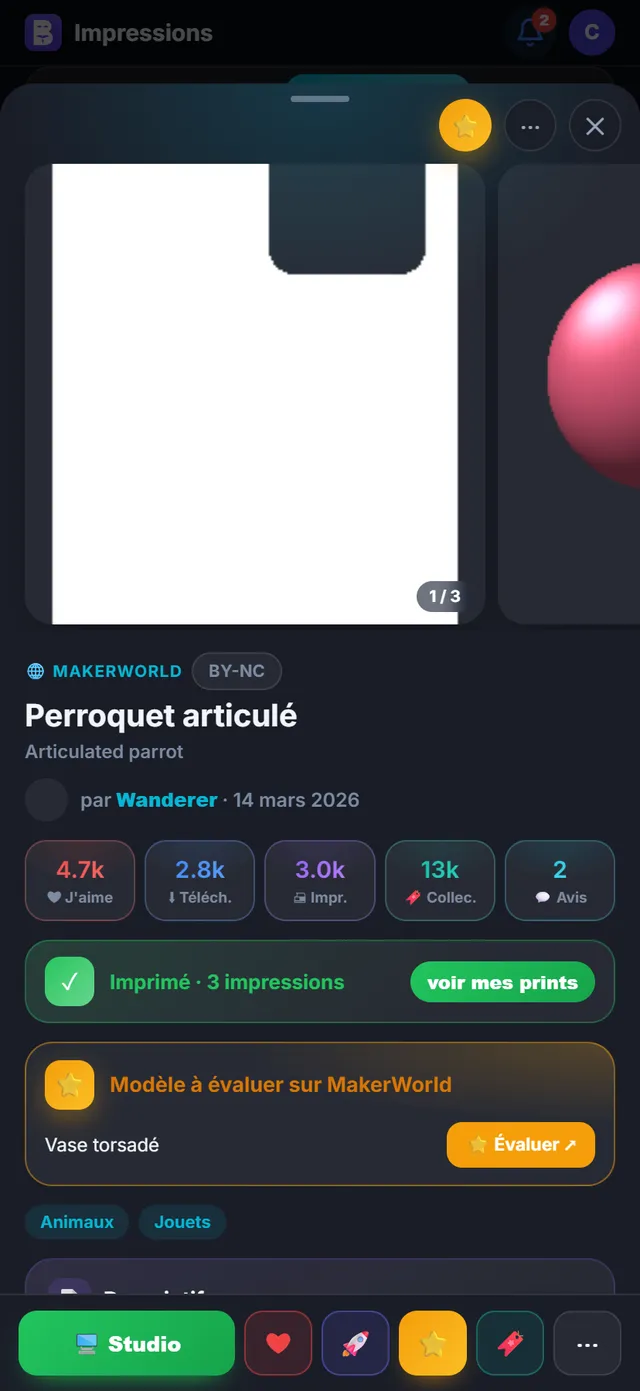
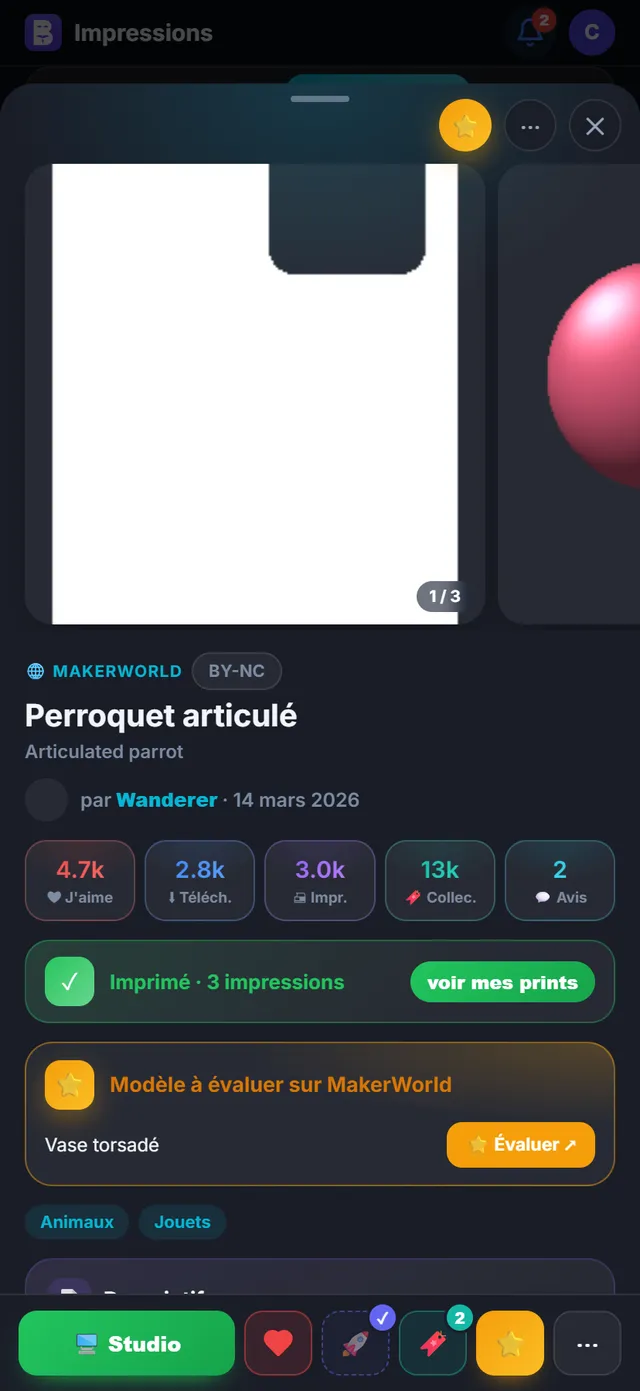
Fiche MakerWorld : boutons en retrait qui disent pourquoi, boost déjà donné visible ; tuiles : j'aime et collections
- cœur dessiné, plein ou vide, même taille
- ordre : ❤ 🚀 🔖 ⭐ ; un bouton indisponible garde sa couleur en pointillés et explique au toucher
- 🚀 : pastille ✓ ou nombre quand le modèle est déjà boosté ; état relu après un boost
- 🔖 : nombre de mes collections qui contiennent le modèle
- tuiles de modèles : cœur si aimé, signet plein et compté si déjà dans mes collections
- guide mis à jour

Changed region(s): [[0.5, 0.9274, 0.875, 1.0], [0.4062, 0.9583, 0.4688, 0.9892]]

diff --git a/frontend/src/components/MakerWorldModelSheet.jsx b/frontend/src/components/MakerWorldModelSheet.jsx
@@ -19,6 +19,8 @@ import Lightbox from "./Lightbox";
 import { openCreator } from "./MwCreatorPage";
 import { useToRateSet, GroupToRate, RateButton } from "./MwToRate";
 import { showAlert, showConfirm } from "../utils/dialog";
+import { toast } from "../store/toast";
+import { Heart } from "lucide-react";
 
 // Prechargement : la fiche est demandee des qu'on touche une tuile ; a
 // l'ouverture, la reponse est souvent deja la.
@@ -101,6 +103,16 @@ export default function MakerWorldModelSheet({ designId, preview, onClose, onSea
   const toRate = useToRateSet(!friend);           // imprime, pas encore evalue
   const [boost, setBoost] = useState(null);       // { can, available }
   const [boostBusy, setBoostBusy] = useState(false);
+  const [inColls, setInColls] = useState(null);     // mes collections qui contiennent ce modele
+  useEffect(() => {
+    if (!canHome) return undefined;
+    let alive = true;
+    setInColls(null);
+    client.get("/makerworld/mine", { params: { ids: String(id) } })
+      .then(r => alive && r.data.collections_known && setInColls(r.data.items?.[String(id)]?.collections || []))
+      .catch(() => {});
+    return () => { alive = false; };
+  }, [id, canHome, pick]);
   useEffect(() => {
     let alive = true;
     setBoost(null);
@@ -111,12 +123,14 @@ export default function MakerWorldModelSheet({ designId, preview, onClose, onSea
   }, [id]);
   const doBoost = async () => {
     const n = boost?.available;
-    if (!await showConfirm(`Booster « ${m?.title_fr || m?.title || "ce modèle"} » ? Ça utilise un de tes boosts`
+    const was = boost?.boosted ? ` Tu l'as déjà boosté ${boost.boosted} fois.` : "";
+    if (!await showConfirm(`Booster « ${m?.title_fr || m?.title || "ce modèle"} » ?${was} Ça utilise un de tes boosts`
       + (n != null ? ` (il t'en reste ${n}).` : "."), { confirmLabel: "🚀 Booster" })) return;
     setBoostBusy(true);
     try {
       const { data } = await client.post(`/makerworld/model/${id}/boost`);
-      setBoost({ can: false, available: data.available, done: true });
+      setBoost(b => ({ ...b, can: false, available: data.available, boosted: (b?.boosted || 0) + 1, reason: "Boosté à l'instant" }));
+      client.get(`/makerworld/model/${id}/boost`).then(r => r.data.known && setBoost(r.data)).catch(() => {});
     } catch (e) { showAlert(e.response?.data?.detail || e.message); }
     setBoostBusy(false);
   };
@@ -251,12 +265,11 @@ export default function MakerWorldModelSheet({ designId, preview, onClose, onSea
         onClick: () => { onSearch(m); onClose(); } },
       (like && canHome || boost && canHome || canHome) && "-",
       like && canHome && { icon: like.liked ? "❤" : "♡", label: like.liked ? "Aimé · retirer le j'aime" : "J'aime", tone: "#EF4444", disabled: likeBusy, onClick: toggleLike },
-      boost && canHome && (boost.can || boost.done) && { icon: "🚀", tone: "#6366F1", disabled: boostBusy || boost.done,
-        label: boost.done ? "Boosté" : boost.boosted ? "Booster encore" : "Booster",
-        hint: [boost.available != null && `${boost.available} boost(s) disponible(s)`,
+      boost && canHome && { icon: "🚀", tone: boost.can ? "#6366F1" : "#94A3B8", disabled: boostBusy || !boost.can,
+        label: boost.can ? (boost.boosted ? "Booster encore" : "Booster") : boost.boosted ? "Déjà boosté" : "Booster",
+        hint: [boost.boosted && `déjà boosté ${boost.boosted} fois`, !boost.can && boost.reason, boost.can && boost.available != null && `${boost.available} boost(s) disponible(s)`,
           boost.creator_max != null && `${boost.creator ?? 0}/${boost.creator_max} donnés à ce créateur cette année`].filter(Boolean).join(" · ") || null,
         onClick: doBoost },
-      boost && canHome && !boost.can && !boost.done && boost.reason && { icon: "🚀", label: "Booster", hint: boost.reason, tone: "#94A3B8", disabled: true },
       canHome && { icon: "🔖", label: "Ranger dans mes collections…", tone: "#14B8A6", onClick: () => setPick(true) },
       !friend && isAdmin && "-",
       !friend && isAdmin && { icon: "🔗", label: "Associer à un print", hint: "Choisir les impressions de ce modèle dans l'historique", tone: "#8B5CF6",
@@ -710,24 +723,37 @@ export default function MakerWorldModelSheet({ designId, preview, onClose, onSea
             {like && canHome && (
               <button onClick={toggleLike} disabled={likeBusy} aria-label={like.liked ? "Aimé" : "J'aime"} data-tip={like.liked ? "Aimé · retirer le j'aime" : "J'aime"}
                 style={{ ...sq, color:"#ef4444", ...(like.liked ? { background:"rgba(239,68,68,0.14)", borderColor:"rgba(239,68,68,0.45)" } : null) }}>
-                {like.liked ? "❤" : "♡"}</button>
+                <Heart size={20} strokeWidth={2.4} fill={like.liked ? "#ef4444" : "none"}/></button>
             )}
             {canHome && (() => {
-              // boost : actif s'il reste de quoi booster ce modele, sinon grise avec la raison
-              const live = boost && boost.can && !boost.done;
-              const tip = !boost ? "Booster : indisponible" : boost.done ? "Boosté" : !boost.can ? (boost.reason || "Booster : indisponible")
-                : [boost.boosted ? "Booster encore" : "Booster", boost.available != null && `${boost.available} disponible(s)`].filter(Boolean).join(" · ");
-              return <button onClick={live ? doBoost : undefined} disabled={!live || boostBusy} aria-label="Booster" data-tip={tip}
-                style={{ ...sq, ...(live ? { background:"rgba(99,102,241,0.14)", borderColor:"rgba(99,102,241,0.45)" } : off) }}>🚀</button>;
+              // boost : actif s'il reste de quoi booster ; sinon en retrait, et le toucher dit pourquoi.
+              // Deja booste par moi : une pastille avec le nombre (MakerWorld le donne par modele).
+              const live = boost && boost.can;
+              const mine = boost?.boosted || 0;
+              const why = !boost ? "Boost : état inconnu pour l'instant (MakerWorld n'a pas répondu)"
+                : boost.reason || "Boost impossible pour ce modèle";
+              const tip = live ? [mine ? `Déjà boosté ${mine} fois · booster encore` : "Booster", boost.available != null && `${boost.available} disponible(s)`]
+                .filter(Boolean).join(" · ") : (mine && !/^Déjà boosté/.test(why) ? `Déjà boosté ${mine} fois · ` : "") + why;
+              return <button onClick={live ? doBoost : () => toast("🚀 " + (mine && !/^Déjà boosté/.test(why) ? `Tu l'as déjà boosté ${mine} fois. ` : "") + why, "info", 3500)}
+                disabled={boostBusy} aria-label="Booster" data-tip={tip}
+                style={{ ...sq, position:"relative", ...(live ? { background:"rgba(99,102,241,0.14)", borderColor:"rgba(99,102,241,0.45)" } : dim("99,102,241")) }}>
+                <span style={live ? null : { opacity:.5 }}>🚀</span>
+                {mine > 0 && <span style={badge("#6366F1")}>{mine > 1 ? mine : "✓"}</span>}</button>;
             })()}
+            {canHome && (
+              <button onClick={() => setPick(true)} aria-label="Ranger dans mes collections"
+                data-tip={inColls?.length ? `Dans ${inColls.join(", ")} · ranger…` : "Ranger dans mes collections"}
+                style={{ ...sq, position:"relative", background:"rgba(20,184,166,0.12)", borderColor:"rgba(20,184,166,0.4)" }}>🔖
+                {inColls?.length > 0 && <span style={badge("#14B8A6")}>{inColls.length}</span>}</button>
+            )}
             {!friend && (rateHere
               ? <RateButton did={id} label="⭐" ext="" doneLabel="✓" style={{ ...sq, display:"flex", alignItems:"center", justifyContent:"center", textDecoration:"none",
                   color:"#fff", border:"none", background:"linear-gradient(135deg, #F59E0B, #FBBF24)", boxShadow:"0 8px 18px -10px #F59E0B" }}/>
-              : <button disabled aria-label="Évaluer" data-tip={m.printed > 0 ? "Déjà évalué" : "À évaluer une fois imprimé"} style={{ ...sq, ...off }}>⭐</button>)}
-            {canHome && (
-              <button onClick={() => setPick(true)} aria-label="Ranger dans mes collections" data-tip="Ranger dans mes collections"
-                style={{ ...sq, background:"rgba(20,184,166,0.12)", borderColor:"rgba(20,184,166,0.4)" }}>🔖</button>
-            )}
+              : (() => {
+                const why = m.printed > 0 ? "Déjà évalué (ou mis de côté sans évaluer)" : "Pas encore imprimé : l'évaluation vient après une impression";
+                return <button onClick={() => toast("⭐ " + why, "info", 3500)} aria-label="Évaluer" data-tip={why}
+                  style={{ ...sq, ...dim("245,158,11") }}><span style={{ opacity:.5 }}>⭐</span></button>;
+              })())}
             <button onClick={menu} aria-label="Plus d'actions" style={sq}>⋯</button>
           </div>
         )}
@@ -842,7 +868,10 @@ const roundTop = { width:34, height:34, borderRadius:"50%", border:"1px solid va
 const fBtn = { padding:"11px 12px", borderRadius:12, border:"1px solid var(--border)", background:"var(--surface2)", color:"var(--text)", fontSize:13.5,
   fontWeight:800, cursor:"pointer", display:"flex", alignItems:"center", justifyContent:"center", gap:6, textDecoration:"none", boxSizing:"border-box" };
 const sq = { ...fBtn, width:44, flex:"0 0 auto", padding:"8px 0", fontSize:17, textAlign:"center" };
-const off = { opacity:.4, filter:"grayscale(1)", cursor:"default" };
+// un bouton en retrait garde sa couleur, en pointilles ; le toucher dit pourquoi
+const dim = rgb => ({ background:`rgba(${rgb},0.05)`, border:`1px dashed rgba(${rgb},0.45)` });
+const badge = c => ({ position:"absolute", top:-5, right:-5, minWidth:17, height:17, padding:"0 4px", borderRadius:9, boxSizing:"border-box",
+  background:c, color:"#fff", fontSize:10, fontWeight:900, lineHeight:"17px", textAlign:"center", boxShadow:"0 0 0 2px var(--sheet-bg, var(--surface))" });
 const primary = { border:"none", color:"#fff", background:"linear-gradient(135deg, #22C55E, #16A34A)", boxShadow:"0 8px 18px -10px #22C55E" };
 const grad = (a, b) => ({ backgroundImage:`linear-gradient(135deg, ${a}, ${b})`, WebkitBackgroundClip:"text", backgroundClip:"text", color:"transparent" });
 const textBtn = { marginTop:6, fontSize:12, fontWeight:600, color:"#3b82f6", background:"none", border:"none",

diff --git a/frontend/src/components/MakerWorldView.jsx b/frontend/src/components/MakerWorldView.jsx
@@ -14,7 +14,8 @@ import MwCreator from "./MwCreator";
 import MwContests from "./MwContests";
 import { openCreator } from "./MwCreatorPage";
 import { useToRate, ToRateTile, ToRateSheet } from "./MwToRate";
-import { mwPatch, onMwChange } from "../utils/mwSync";
+import { mwPatch, onMwChange, mwRecent } from "../utils/mwSync";
+import { Heart } from "lucide-react";
 import { useFriend } from "../store/friend";
 import { useMine, MineBadge } from "./Friends";
 import { Pressable } from "./ContextMenu";
@@ -43,6 +44,40 @@ const ago = iso => {
     : d < 365 ? `il y a ${Math.floor(d / 30)} mois` : `il y a ${Math.floor(d / 365)} an${d >= 730 ? "s" : ""}`;
 };
 const FILTERS = [["all", "Tous"], ["printed", "Déjà imprimés"], ["new", "Jamais imprimés"]];
+
+// Chez moi : pour chaque modele affiche, aime par moi et dans combien de mes collections
+// (index lu cote serveur, garde 30 min) ; ce que je viens de changer ici passe devant.
+const MY = new Map();
+function useMyMw(ids) {
+  const [, bump] = useState(0);
+  const key = (ids || []).join(",");
+  useEffect(() => onMwChange(() => bump(n => n + 1)), []);
+  useEffect(() => {
+    if (!ids?.length) return undefined;
+    const miss = ids.map(String).filter(i => !MY.has(i));
+    if (!miss.length) return undefined;
+    let alive = true;
+    for (let i = 0; i < miss.length; i += 100) {
+      client.get("/makerworld/mine", { params: { ids: miss.slice(i, i + 100).join(",") } })
+        .then(({ data }) => {
+          if (!data.collections_known) return;
+          Object.entries(data.items || {}).forEach(([k, v]) => MY.set(k, { liked: !!v.liked, colls: (v.collections || []).length }));
+          if (alive) bump(n => n + 1);
+        })
+        .catch(() => {});
+    }
+    return () => { alive = false; };
+  }, [key]);
+  if (!ids?.length) return null;
+  return id => {
+    const base = MY.get(String(id)), r = mwRecent(id);
+    if (!base && r.liked == null && r.colls == null) return null;
+    return { liked: r.liked ?? base?.liked, colls: r.colls ?? base?.colls };
+  };
+}
+
+const chipGlass = { width:30, height:30, borderRadius:"50%", border:"1px solid rgba(255,255,255,.25)", background:"rgba(15,23,42,0.55)",
+  backdropFilter:"blur(6px)", WebkitBackdropFilter:"blur(6px)", display:"flex", alignItems:"center", justifyContent:"center", boxSizing:"border-box" };
 
 export default function MakerWorldView({ onSearch }) {
   const [tab, setTab] = useUrlTab("mw", "favorites", TABS.map(([k]) => k));
@@ -301,6 +336,7 @@ export default function MakerWorldView({ onSearch }) {
   const all = data?.items || [];
   const items = all.filter(x => pf === "all" || (pf === "new" ? !x.printed : x.printed > 0));
   const mineOf = useMine(showModels ? all.map(x => x.design_id) : []);   // chez un copain : « deja chez moi ? »
+  const myOf = useMyMw(showModels && !friend && status?.connected ? all.map(x => x.design_id) : []);   // chez moi : aime, dans mes collections
   const count = { all: all.length, printed: all.filter(x => x.printed > 0).length, new: all.filter(x => !x.printed).length };
 
   // les sous-onglets, chacun sa couleur (comme les onglets de la page)
@@ -529,15 +565,26 @@ export default function MakerWorldView({ onSearch }) {
                         {x.added?.by && <span data-tip={`Ajouté à la collection par ${x.added.by}${x.added.at ? ` le ${new Date(x.added.at + "Z").toLocaleDateString("fr-FR")}` : ""}`}
                           style={{ ...glass, left:6, bottom:6, maxWidth:"calc(100% - 12px)", overflow:"hidden", textOverflow:"ellipsis" }}>＋ {x.added.by}</span>}
                       </a>
-                      {/* ranger dans mes collections : le signet, sur la vignette */}
-                      {(status?.connected || friend) && (
-                        <AdminOnly home mw>
-                          <button onClick={() => setPickFor(x)} data-tip="Ranger dans mes collections" aria-label="Ranger dans mes collections"
-                            style={{ position:"absolute", top:6, right:6, width:30, height:30, borderRadius:"50%", border:"1px solid rgba(255,255,255,.25)",
-                              background:"rgba(15,23,42,0.55)", backdropFilter:"blur(6px)", WebkitBackdropFilter:"blur(6px)", color:"#2DD4BF",
-                              cursor:"pointer", fontSize:15, display:"flex", alignItems:"center", justifyContent:"center" }}>🔖</button>
-                        </AdminOnly>
-                      )}
+                      {/* en haut a droite : aime par moi (sauf dans J'aime, ou tout l'est), puis le signet,
+                          plein et compte quand le modele est deja dans mes collections */}
+                      {(() => {
+                        const me = myOf?.(x.design_id);
+                        const n = me?.colls || 0;
+                        return <span style={{ position:"absolute", top:6, right:6, display:"flex", gap:5, alignItems:"center" }}>
+                          {me?.liked && tab !== "likes" && <span data-tip="Tu l'aimes" style={{ ...chipGlass, color:"#ef4444" }}>
+                            <Heart size={15} strokeWidth={2.4} fill="#ef4444"/></span>}
+                          {(status?.connected || friend) && (
+                            <AdminOnly home mw>
+                              <button onClick={() => setPickFor(x)} aria-label="Ranger dans mes collections"
+                                data-tip={n ? `Dans ${n} de tes collections · ranger…` : "Ranger dans mes collections"}
+                                style={{ ...chipGlass, cursor:"pointer", position:"relative", fontSize:15,
+                                  ...(n ? { background:"linear-gradient(135deg, #14B8A6, #2DD4BF)", border:"1px solid rgba(255,255,255,.5)" } : null) }}>🔖
+                                {n > 1 && <span style={{ position:"absolute", bottom:-4, right:-4, minWidth:15, height:15, borderRadius:8, padding:"0 3px",
+                                  boxSizing:"border-box", background:"#0f766e", color:"#fff", fontSize:9, fontWeight:900, lineHeight:"15px", textAlign:"center" }}>{n}</span>}
+                              </button>
+                            </AdminOnly>
+                          )}</span>;
+                      })()}
                     </div>
                     <div style={{ padding:"8px 9px 9px", display:"flex", flexDirection:"column", gap:4, flex:1 }}>
                       <a href={x.url} onClick={e => { e.preventDefault(); setModel(x); }} onPointerDown={() => prefetchModel(x.design_id)}

diff --git a/backend/guide/pages/makerworld.html b/backend/guide/pages/makerworld.html
@@ -111,7 +111,7 @@
   <section id="makerworld-tuile">
     <h3>La tuile d'un modèle</h3>
     <ul>
-      <li><b>Couverture</b> carrée, avec le ruban <span class="ui">✓ IMPRIMÉ</span> (et une carte teintée de vert) ou <span class="ui">⏳ EN COURS</span>. En haut à droite, le signet <span class="ui">🔖</span> range le modèle dans tes collections (droit MakerWorld) — voir <a href="#makerworld-ranger">Ranger dans mes collections</a>.</li>
+      <li><b>Couverture</b> carrée, avec le ruban <span class="ui">✓ IMPRIMÉ</span> (et une carte teintée de vert) ou <span class="ui">⏳ EN COURS</span>. En haut à droite, un cœur rouge si tu aimes le modèle (sauf dans <span class="ui">J'aime</span>, où tous le sont), puis le signet <span class="ui">🔖</span>, plein (sarcelle) quand le modèle est déjà dans au moins une de tes collections, avec leur nombre s'il y en a plusieurs. Le signet range le modèle dans tes collections (droit MakerWorld) — voir <a href="#makerworld-ranger">Ranger dans mes collections</a>.</li>
       <li><b>Titre</b>, puis « par <i>créateur</i> » : touche le nom (en couleur) pour ouvrir <a href="#makerworld-page-createur">la page du créateur</a>. Dans Suivis, la date de publication suit (« aujourd'hui », « hier », « il y a 3 j »…).</li>
       <li><b>En bas</b> : <span class="ui">✓ Imprimé</span>, <span class="ui">✓ Imprimé · 5 impressions</span> ou <span class="ui">✓ Imprimé · 3 plateaux · 5 impressions</span> (touche-le pour voir ces impressions dans la Liste de l'historique) ; ou « ⏳ en cours d'impression » ; ou « jamais imprimé ».</li>
     </ul>
@@ -288,14 +288,14 @@
 
   <section id="makerworld-fiche-boutons">
     <h3>Les actions</h3>
-    <p>En bas, toujours à portée du pouce, une rangée de boutons (les mêmes symboles que sur MakerWorld ; un bouton grisé dit pourquoi au survol) :</p>
+    <p>En bas, toujours à portée du pouce, une rangée de boutons (les mêmes symboles que sur MakerWorld). Un bouton en retrait (pointillés, couleur pâle) n'est pas disponible : touche-le, un message dit pourquoi.</p>
     <dl class="opts">
       <dt>🖥 Studio</dt><dd>Le grand bouton vert, sur ordinateur (droit MakerWorld) : ouvre Bambu Studio sur le fichier 3MF du profil retenu (ou choisi automatiquement, voir <a href="#makerworld-fiche-profils">Profils</a>). Compte comme un téléchargement sur MakerWorld. Sans ce droit, ou sans profil, le bouton devient <span class="ui">🌐 ↗</span> (la page du modèle sur MakerWorld).</dd>
       <dt>📱</dt><dd>Sur téléphone ou tablette, à la place du précédent : ouvre le modèle dans l'appli Bambu Handy.</dd>
       <dt>♡ / ❤</dt><dd>Compte lié et droit MakerWorld : aime le modèle (ou retire le j'aime), en rouge. Le bouton change tout de suite, la liste J'aime suit.</dd>
-      <dt>🚀</dt><dd>Droit MakerWorld : booster le modèle (voir <span class="ui">🚀 Booster</span> ci-dessous). Grisé quand ce n'est pas possible (plus de boost, déjà boosté, limite par créateur) ou déjà fait.</dd>
-      <dt>⭐</dt><dd>Orange quand le modèle attend ton évaluation : ouvre directement l'écran d'évaluation (ou MakerWorld si l'évaluation ne peut pas se faire depuis l'appli). Grisé sinon. Absent chez un copain.</dd>
-      <dt>🔖</dt><dd>Droit MakerWorld : <a href="#makerworld-ranger">ranger le modèle dans tes collections</a>.</dd>
+      <dt>🚀</dt><dd>Droit MakerWorld : booster le modèle (voir <span class="ui">🚀 Booster</span> ci-dessous). Si tu l'as déjà boosté, une pastille le dit (✓, ou le nombre de fois). En retrait quand ce n'est pas possible : le toucher donne la raison (« Déjà boosté (1/1 pour ce modèle) », « Plus aucun boost disponible », limite par créateur).</dd>
+      <dt>🔖</dt><dd>Droit MakerWorld : <a href="#makerworld-ranger">ranger le modèle dans tes collections</a>. Une pastille donne le nombre de tes collections qui le contiennent déjà.</dd>
+      <dt>⭐</dt><dd>Orange quand le modèle attend ton évaluation : ouvre directement l'écran d'évaluation (ou MakerWorld si l'évaluation ne peut pas se faire depuis l'appli). En retrait sinon : le toucher dit « Pas encore imprimé » ou « Déjà évalué ». Absent chez un copain.</dd>
       <dt>⋯</dt><dd>Le menu de la fiche (le même qu'en haut).</dd>
     </dl>
     <p>Le menu <span class="ui">⋯</span> reprend tout, en couleurs :</p>

diff --git a/frontend/src/utils/mwSync.js b/frontend/src/utils/mwSync.js
@@ -23,6 +23,12 @@ export function mwCollections(designId, ids, item) {
   emit();
 }
 
+// Ce qu'on vient de poser sur ce modele (null si rien de recent) : les pastilles des tuiles.
+export function mwRecent(designId) {
+  const l = likes.get(String(designId)), c = member.get(String(designId));
+  return { liked: live(l) ? l.liked : null, colls: live(c) ? c.ids.size : null };
+}
+
 // Applique les changements recents a une liste en cache ou fraiche.
 export function mwPatch(key, data) {
   if (!data?.items || !key) return data;
